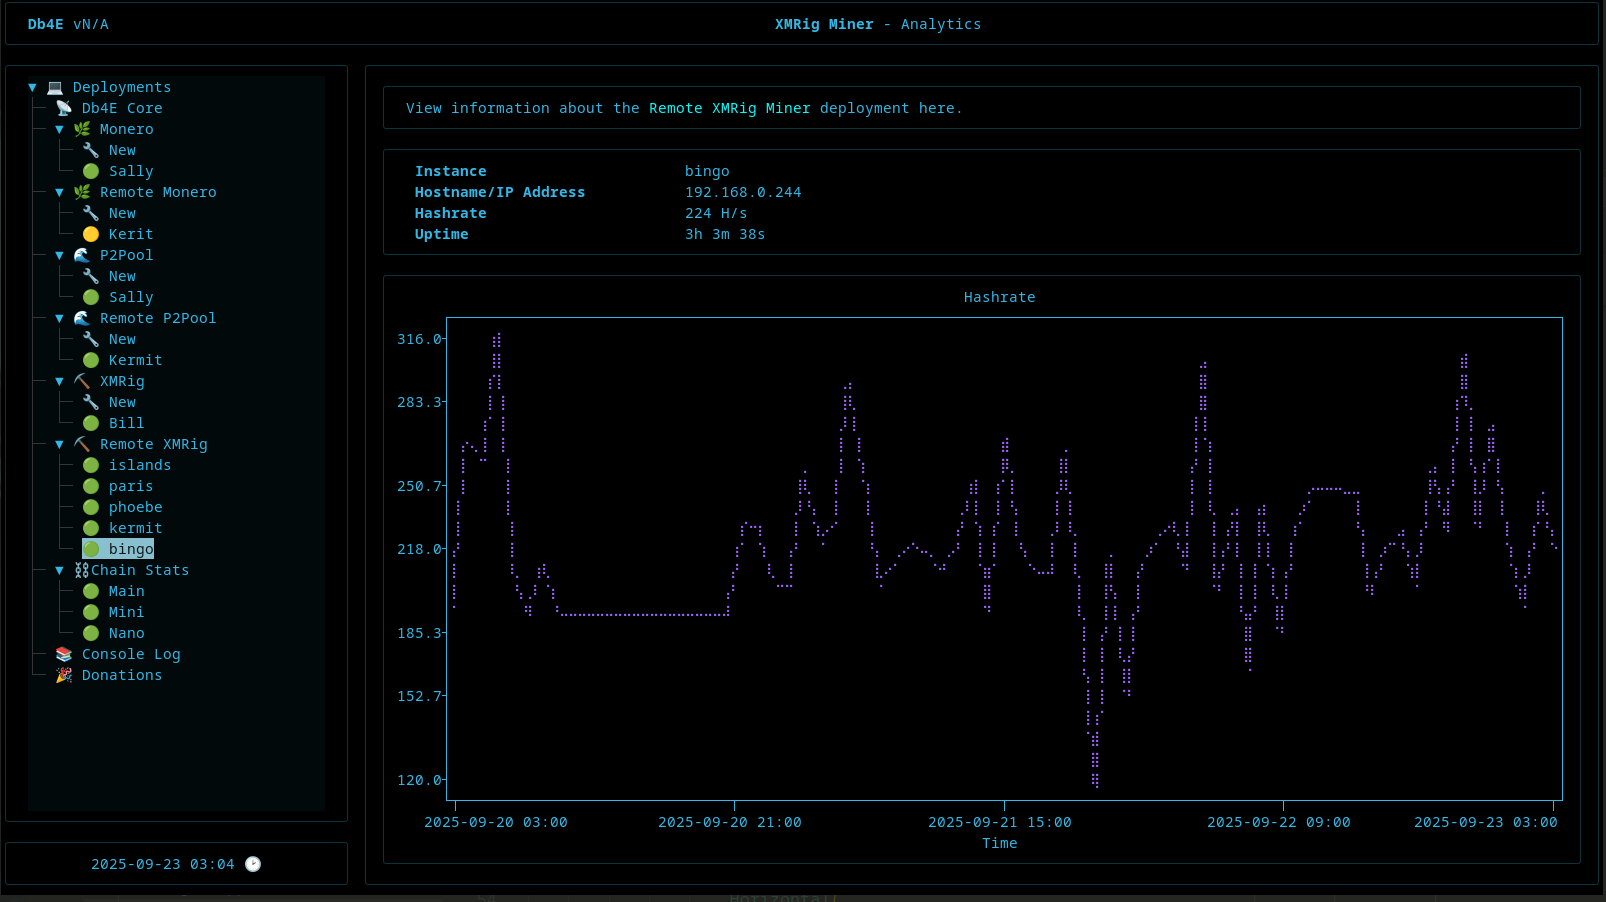
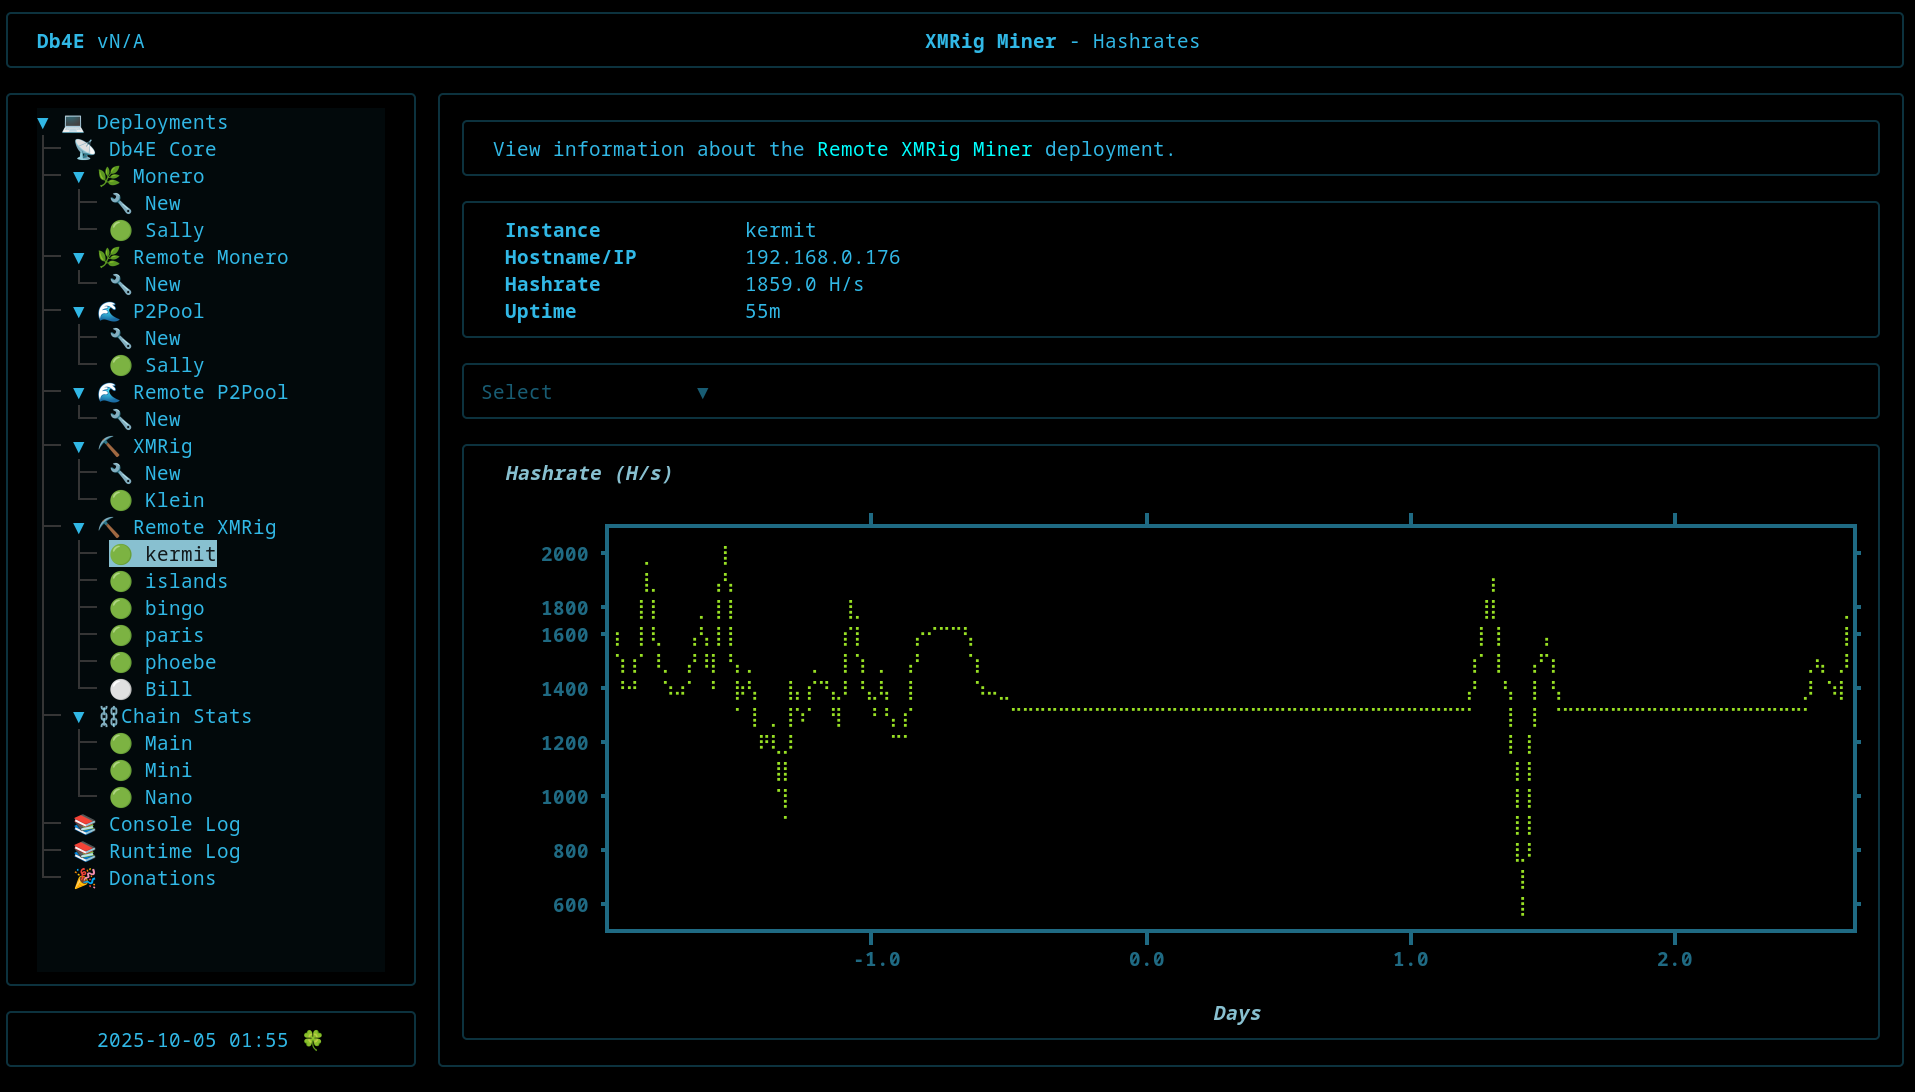
feat: Added screenshots

diff --git a/pages/db4e-tui.py.md b/pages/db4e-tui.py.md
@@ -24,12 +24,19 @@ The UI is tightly integrated with the underlying service and MongoDB backend to 
 
 ---
 
+# Installation
+
+```shell
+pip install db4e
+```
+
+---
+
 # Launch the App
 
 After installation:
 
 ```shell
-pip install db4e
 db4e
 ```
 
@@ -54,6 +61,10 @@ db4e
 ![Monero Configuration](/images/monero-config.png)
 
 ![Cumulative Uptime Report](/images/cumulative-uptime.png)
+
+![Remote Monero Configuration](/images/remote-monerod-config.png)
+
+
 ---
 
 )
